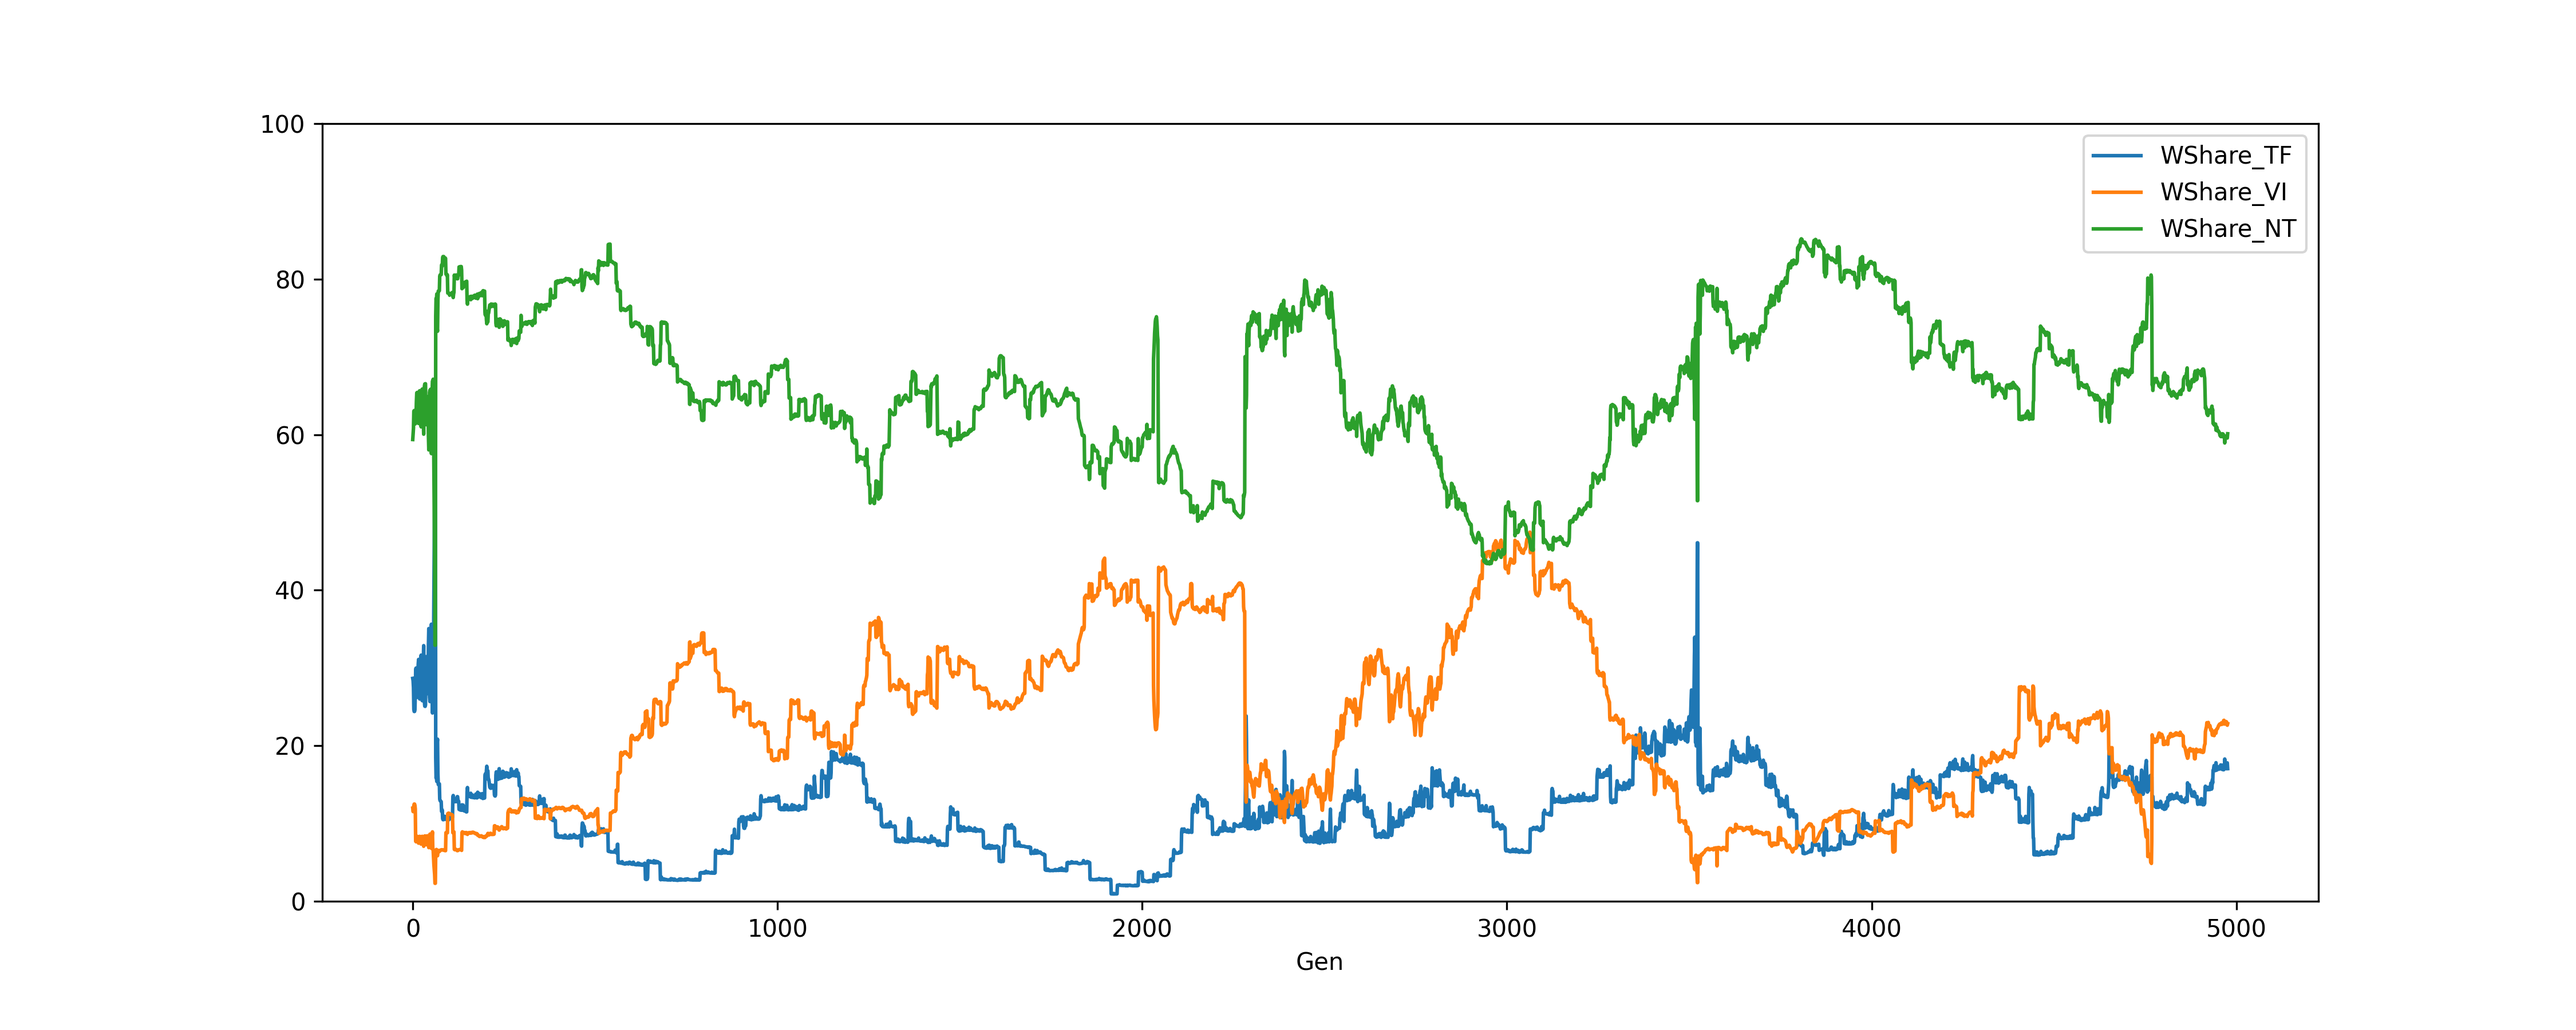
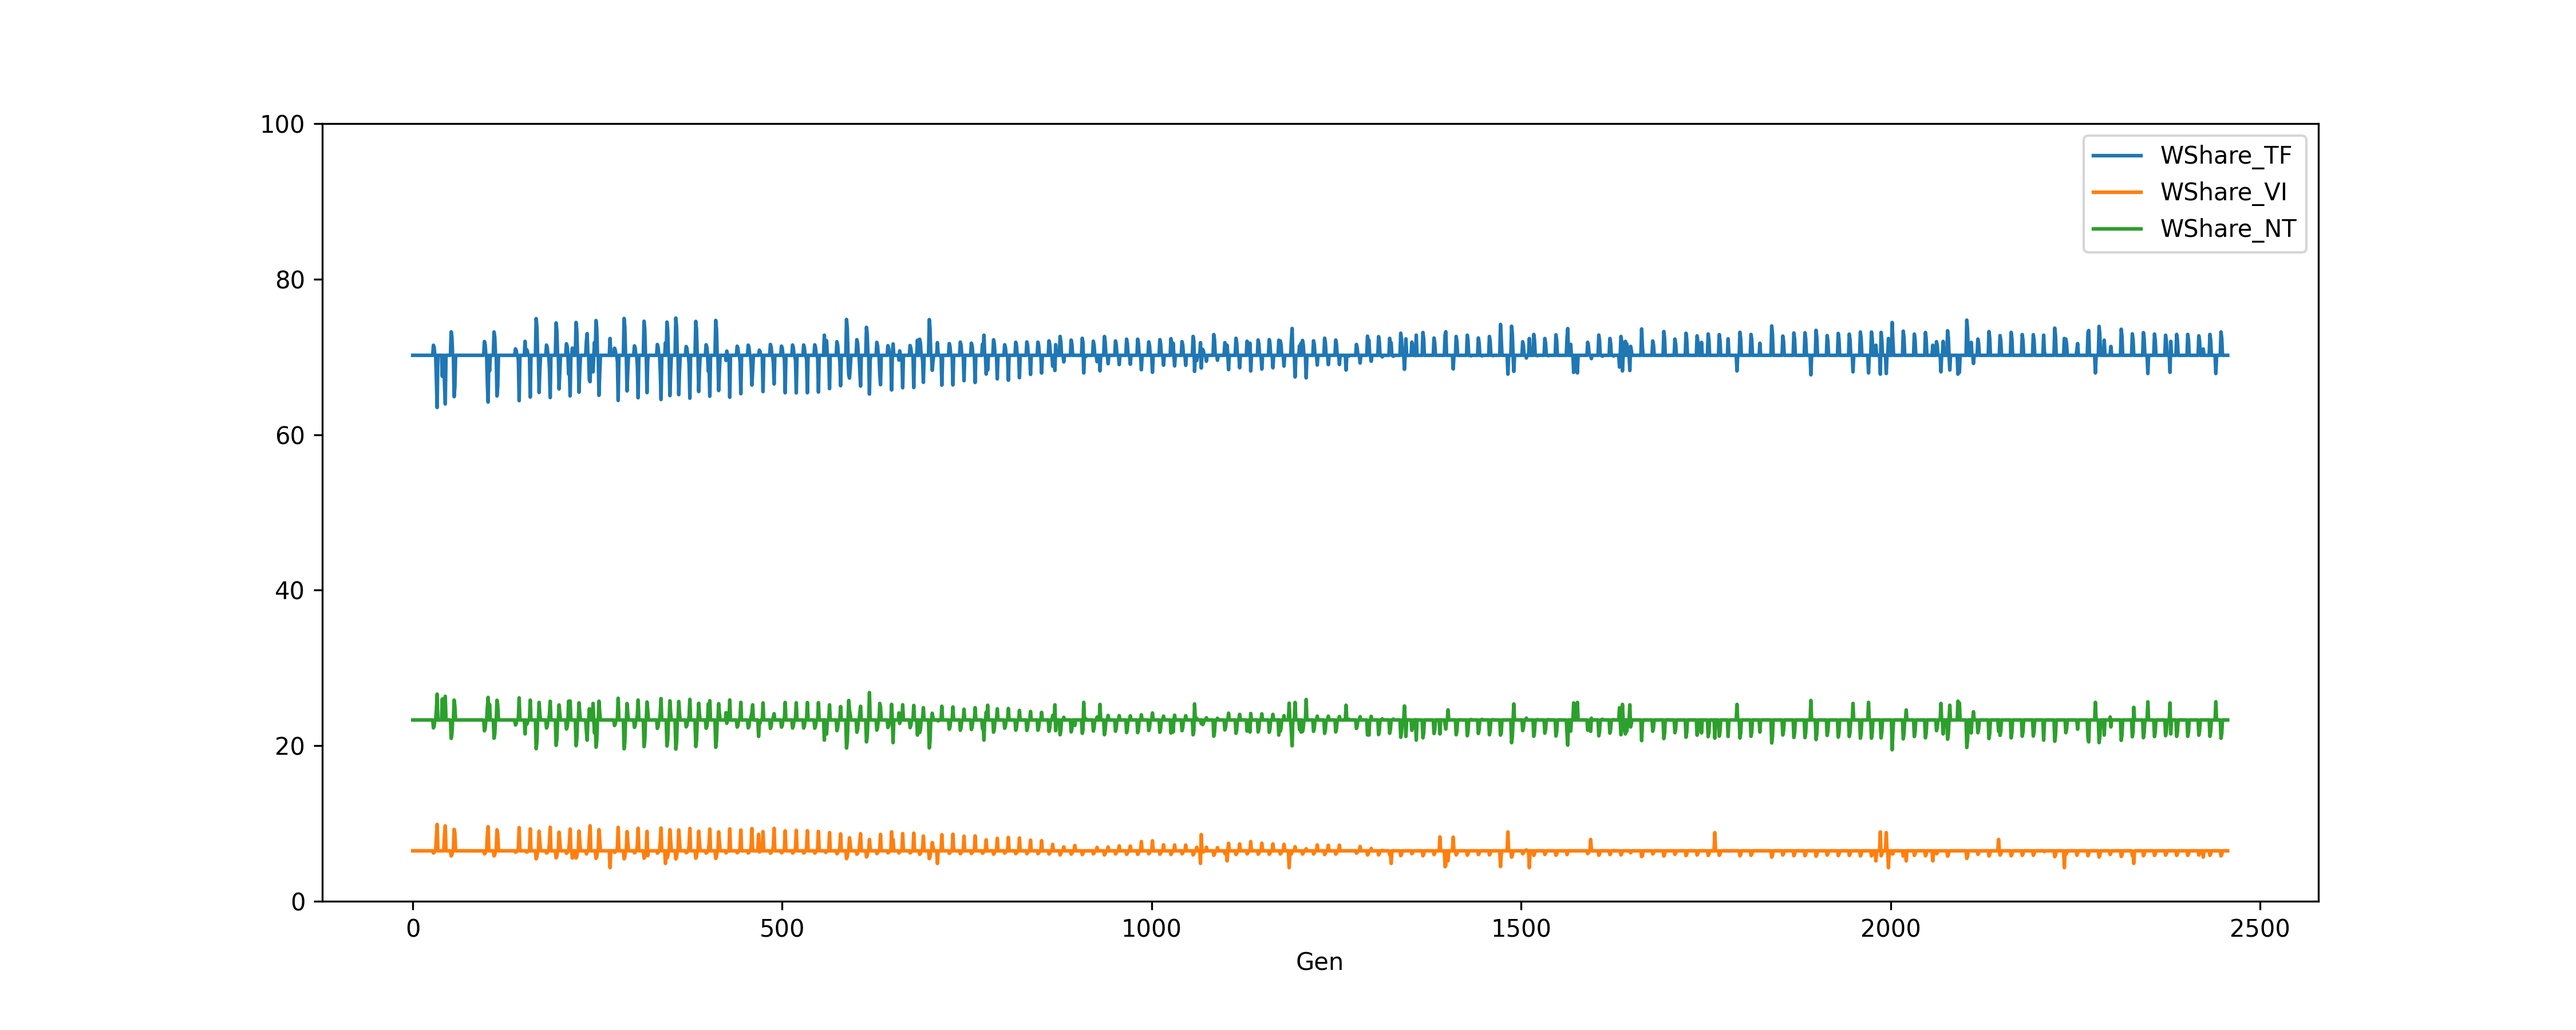
ternary wealth share plot

diff --git a/evology/code/run.py b/evology/code/run.py
@@ -1,13 +1,11 @@
 #!/usr/bin/env python3
 from main import *
-# import pandas as pd
-# import random
 from parameters import *
 
 RANDOM_SEED = random.random()
 wealth_coordinates = [1/3, 1/3, 1/3]
-wealth_coordinates = [0.02319459484404431, 0.20975932194467775, 0.767046083211278]
-# wealth_coordinates = np.random.dirichlet(np.ones(3),size=1)[0].tolist()
+# wealth_coordinates = [0.02319459484404431, 0.20975932194467775, 0.767046083211278]
+wealth_coordinates = np.random.dirichlet(np.ones(3),size=1)[0].tolist()
 
 print(wealth_coordinates)
 
@@ -26,7 +24,7 @@ def run(POPULATION_SIZE, learning_mode, TIME, wealth_coordinates, tqdm_display, 
 
     return df, pop
 
-df,pop = run(50, 2, 253, wealth_coordinates, tqdm_display=False, reset_wealth=True)
+df,pop = run(50, 2, 252 * 10, wealth_coordinates, tqdm_display=False, reset_wealth=True)
 df.to_csv("evology/data/run_data.csv")
 
 print(df)
